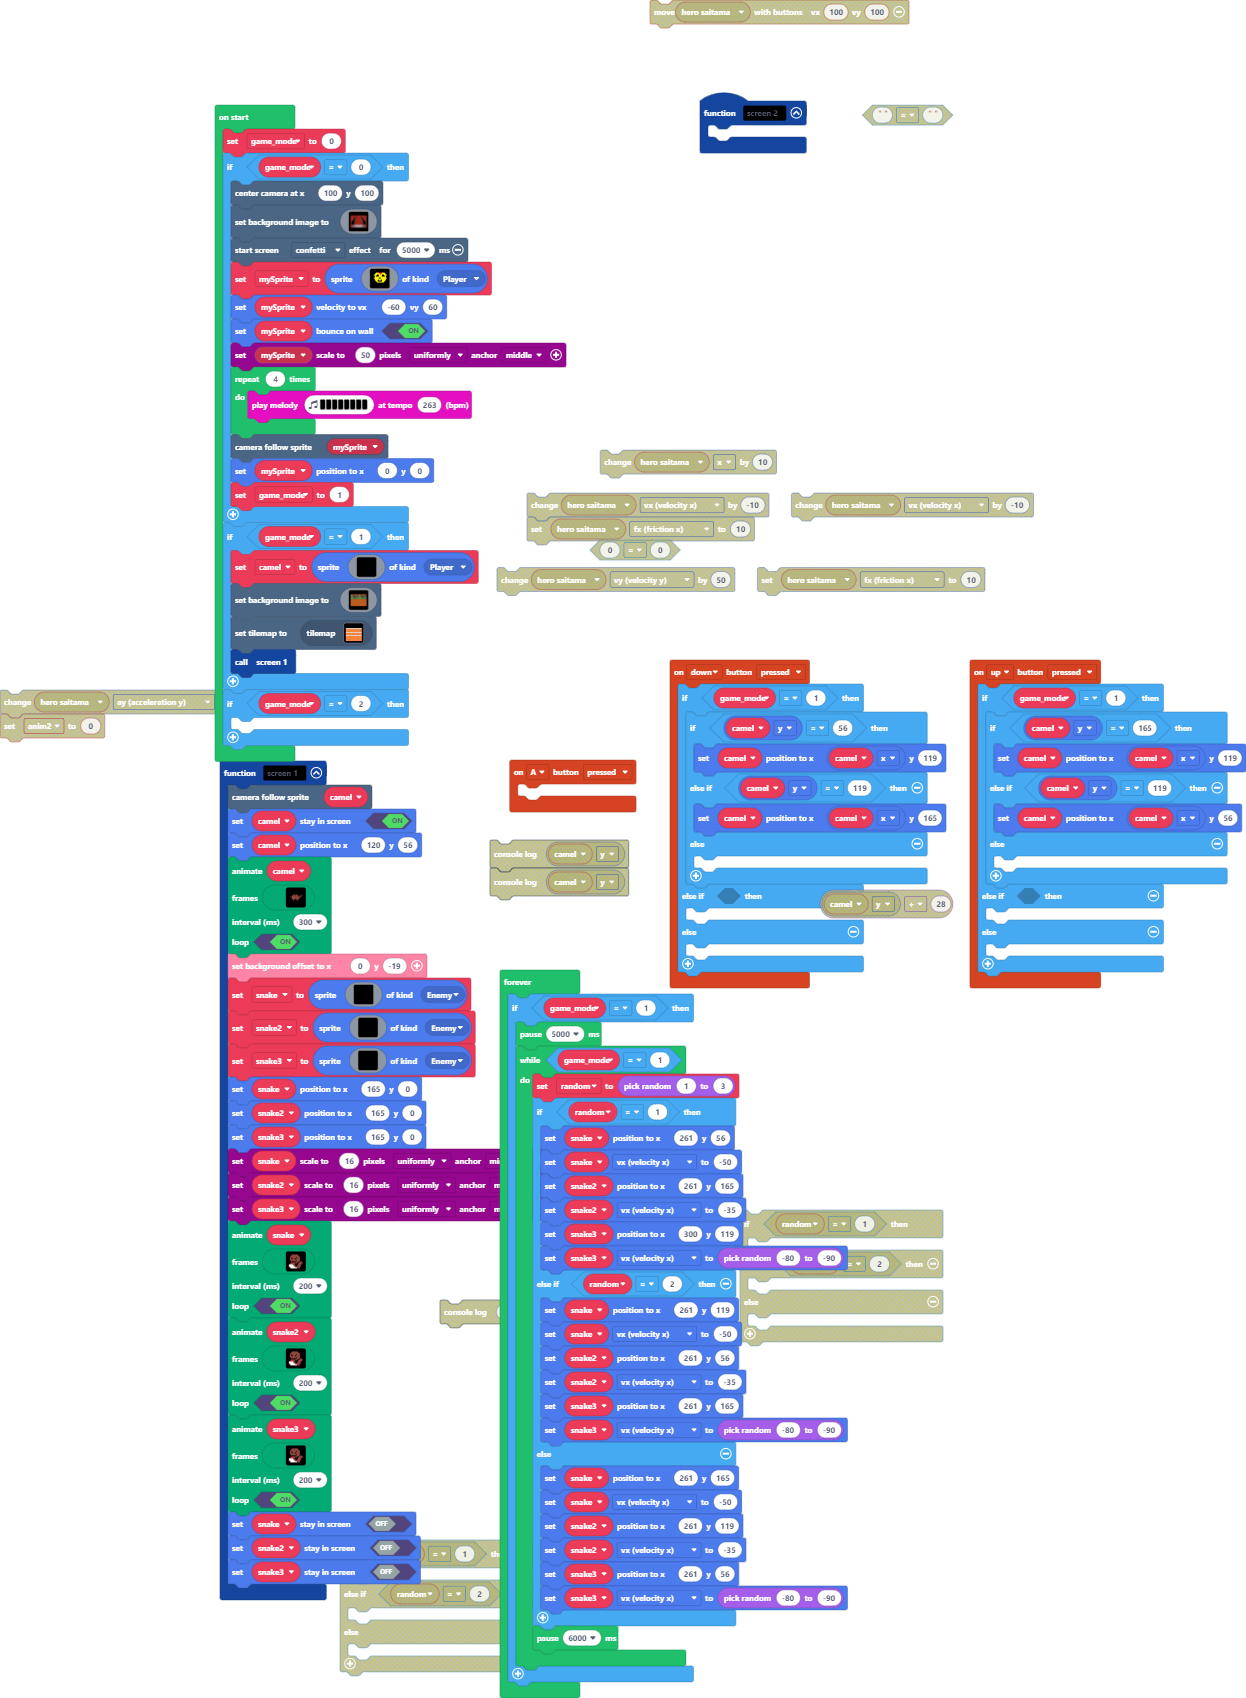
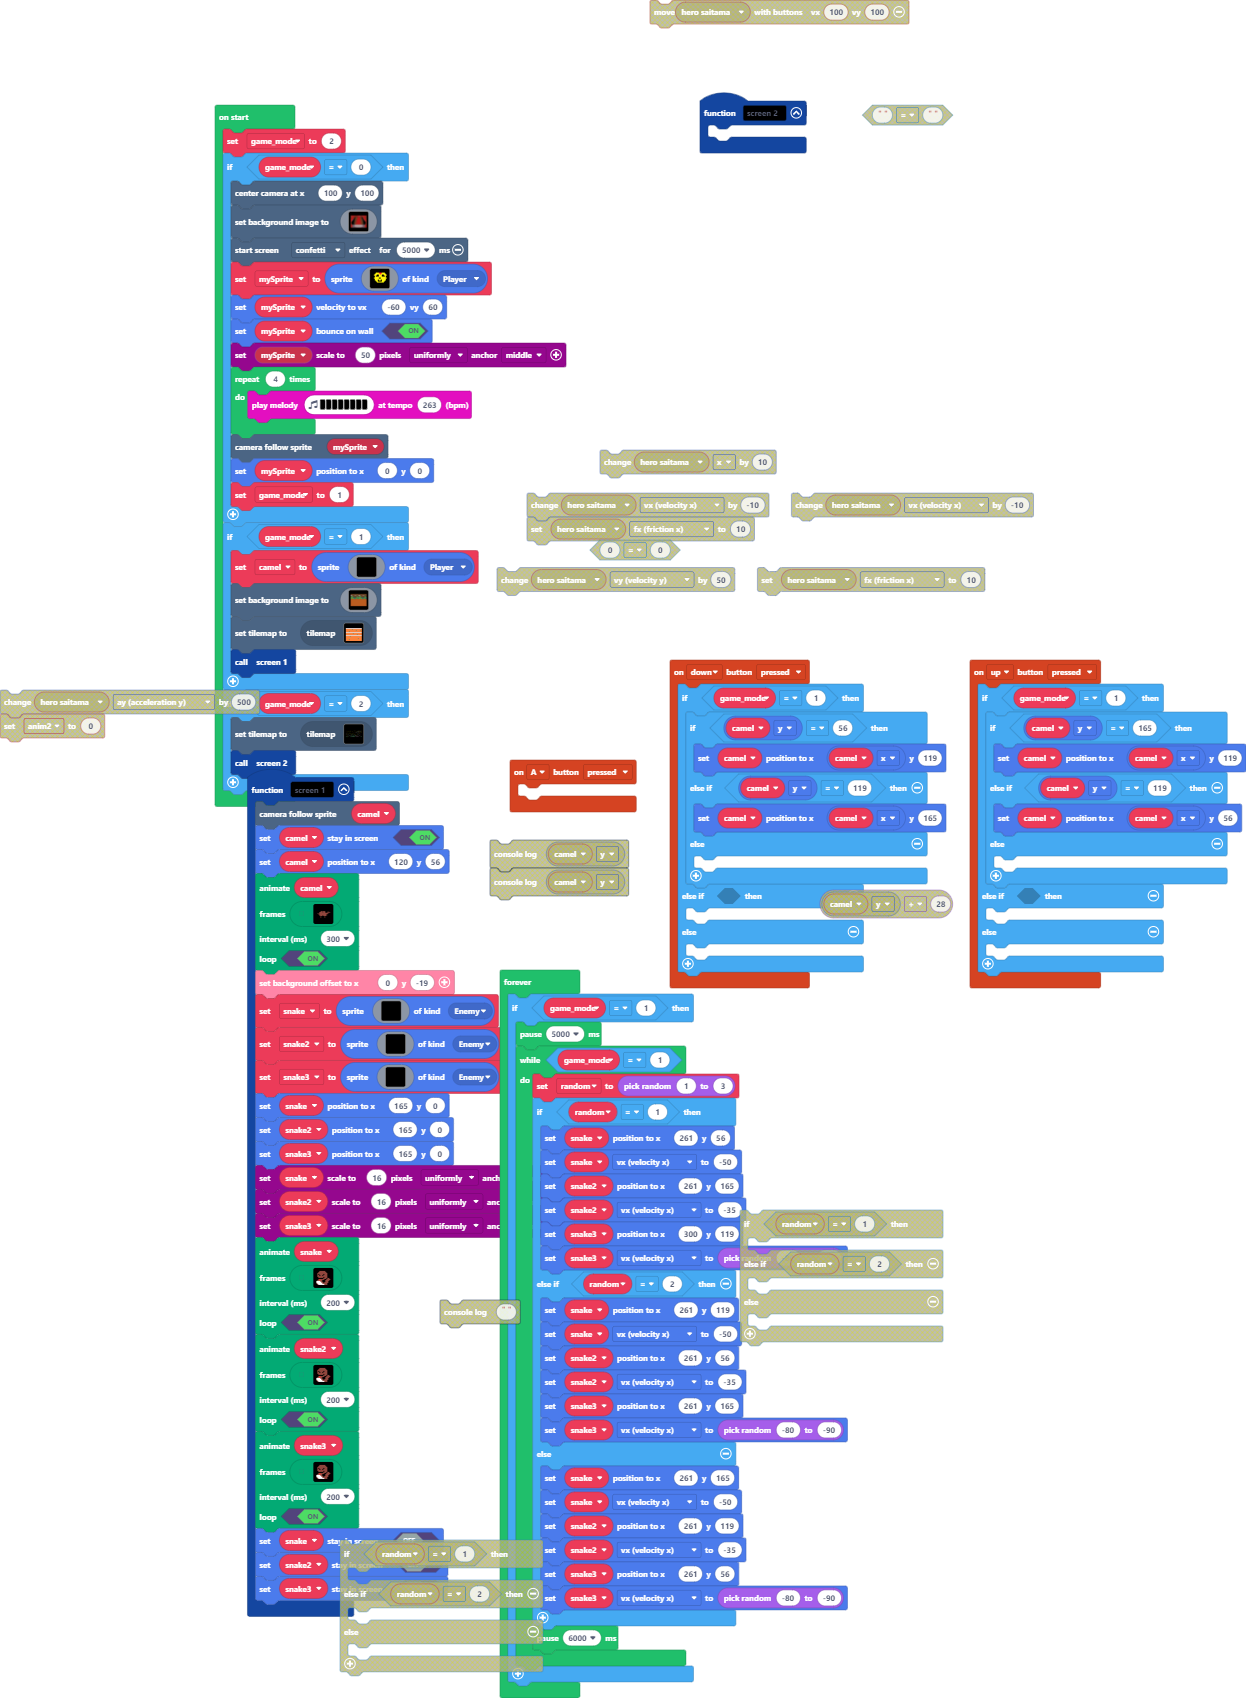
addes functin screen 2

diff --git a/tilemap.g.ts b/tilemap.g.ts
@@ -21,33 +21,6 @@ namespace myTiles {
 
     helpers._registerFactory("tilemap", function(name: string) {
         switch(helpers.stringTrim(name)) {
-            case "level2":
[1 lines of base64/hex data omitted]
-2...........................................................
-2...........................................................
-2...........................................................
-2...................................................2222....
-2................................................22....2....
-2...........................................22222......2....
-2......................................................2....
-2......................................................2....
-2....................................2222..............2....
-2......................................................2....
-2..........................................22222.......2....
-2......................................................2....
-2......................................................2....
-22................................................2222.2....
-222222.................................................2....
-2......................................................2....
-2.......2222..........2222....................222......2....
-2..........................222.........................2....
-2...................2.........2........................2....
-2............222...................2222...........222..2....
-2.................................22..22...............2....
-2.......222......................22....22.....222......2....
-2.......................22222..222......22.............22222
-2222222..........22222222...2222.........22222.........22222
-`, [myTiles.transparency16,sprites.builtin.forestTiles5,sprites.builtin.forestTiles9,sprites.builtin.forestTiles2,sprites.builtin.forestTiles13,myTiles.tile7,sprites.builtin.forestTiles4,sprites.builtin.forestTiles20,sprites.swamp.swampTile2,sprites.builtin.forestTiles28,sprites.builtin.forestTiles21,sprites.builtin.forestTiles17,sprites.builtin.forestTiles18,sprites.builtin.forestTiles19,sprites.builtin.forestTiles22,sprites.swamp.swampTile3,sprites.builtin.forestTiles10,sprites.builtin.forestTiles7,sprites.builtin.forestTiles6,sprites.builtin.forestTiles1,sprites.builtin.forestTiles3,sprites.swamp.swampTile18,sprites.builtin.forestTiles12,sprites.builtin.forestTiles8,sprites.builtin.forestTiles16,sprites.swamp.swampTile1,sprites.swamp.swampTile0,sprites.builtin.forestTiles0,sprites.dungeon.collectibleRedCrystal,myTiles.tile8], TileScale.Sixteen);
             case "level3":
             case "level3":return tiles.createTilemap(hex`1000100000000000000000000000000000000000000000000000000000000000000000000000000000000000000000000000000000000000000000000000000000000000000000000000000000000000000000000000000000000000000000000000000000000000000000000000000000000000000000000000000000000000000000000000000000000000000000000000000000000000000000000000000000000000000000000000000000000000000000000000000000000000000000000000000000000000000000000000000000000000000000000000000000000000000000000000000000000000000000000000000000000000000000000000000000000000`, img`
 . . . . . . . . . . . . . . . . 
@@ -105,6 +78,52 @@ namespace myTiles {
 . . . . . . . . . . . . . . . . 
 . . . . . . . . . . . . . . . . 
 `, [myTiles.transparency16,myTiles.tile4,myTiles.tile6,sprites.castle.tilePath5], TileScale.Sixteen);
+            case "level5":
+            case "level5":return tiles.createTilemap(hex`1000100000000000000000000000000000000000000000000000000000000000000000000000000000000000000000000000000000000000000000000000000000000000000000000000000000000000000000000000000000000000000000000000000000000000000000000000000000000000000000000000000000000000000000000000000000000000000000000000000000000000000000000000000000000000000000000000000000000000000000000000000000000000000000000000000000000000000000000000000000000000000000000000000000000000000000000000000000000000000000000000000000000000000000000000000000000000`, img`
+. . . . . . . . . . . . . . . . 
+. . . . . . . . . . . . . . . . 
+. . . . . . . . . . . . . . . . 
+. . . . . . . . . . . . . . . . 
+. . . . . . . . . . . . . . . . 
+. . . . . . . . . . . . . . . . 
+. . . . . . . . . . . . . . . . 
+. . . . . . . . . . . . . . . . 
+. . . . . . . . . . . . . . . . 
+. . . . . . . . . . . . . . . . 
+. . . . . . . . . . . . . . . . 
+. . . . . . . . . . . . . . . . 
+. . . . . . . . . . . . . . . . 
+. . . . . . . . . . . . . . . . 
+. . . . . . . . . . . . . . . . 
+. . . . . . . . . . . . . . . . 
+`, [myTiles.transparency16], TileScale.Sixteen);
+            case "level2":
[1 lines of base64/hex data omitted]
+2...........................................................
+2...........................................................
+2...........................................................
+2...................................................2222....
+2................................................22....2....
+2...........................................22222......2....
+2......................................................2....
+2......................................................2....
+2....................................2222..............2....
+2......................................................2....
+2..........................................22222.......2....
+2......................................................2....
+2......................................................2....
+22................................................2222.2....
+222222.................................................2....
+2......................................................2....
+2.......2222..........2222....................222......2....
+2..........................222.........................2....
+2...................2.........2........................2....
+2............222...................2222...........222..2....
+2.................................22..22...............2....
+2.......222......................22....22.....222......2....
+2.......................22222..222......22.............22222
+2222222..........22222222...2222.........22222.........22222
+`, [myTiles.transparency16,sprites.builtin.forestTiles5,sprites.builtin.forestTiles9,sprites.builtin.forestTiles2,sprites.builtin.forestTiles13,myTiles.tile7,sprites.builtin.forestTiles4,sprites.builtin.forestTiles20,sprites.swamp.swampTile2,sprites.builtin.forestTiles28,sprites.builtin.forestTiles21,sprites.builtin.forestTiles17,sprites.builtin.forestTiles18,sprites.builtin.forestTiles19,sprites.builtin.forestTiles22,sprites.swamp.swampTile3,sprites.builtin.forestTiles10,sprites.builtin.forestTiles7,sprites.builtin.forestTiles6,sprites.builtin.forestTiles1,sprites.builtin.forestTiles3,sprites.swamp.swampTile18,sprites.builtin.forestTiles12,sprites.builtin.forestTiles8,sprites.builtin.forestTiles16,sprites.swamp.swampTile1,sprites.swamp.swampTile0,sprites.builtin.forestTiles0,sprites.dungeon.collectibleRedCrystal,myTiles.tile8], TileScale.Sixteen);
         }
         return null;
     })

diff --git a/main.ts b/main.ts
@@ -134,7 +134,7 @@ let snake: Sprite = null
 let camel: Sprite = null
 let mySprite: Sprite = null
 let game_mode = 0
-game_mode = 0
+game_mode = 2
 if (game_mode == 0) {
     scene.centerCameraAt(100, 100)
     scene.setBackgroundImage(img`
@@ -433,7 +433,8 @@ if (game_mode == 1) {
     screen_1()
 }
 if (game_mode == 2) {
-	
+    tiles.setCurrentTilemap(tilemap`level2`)
+    screen_2()
 }
 forever(function () {
     if (game_mode == 1) {
